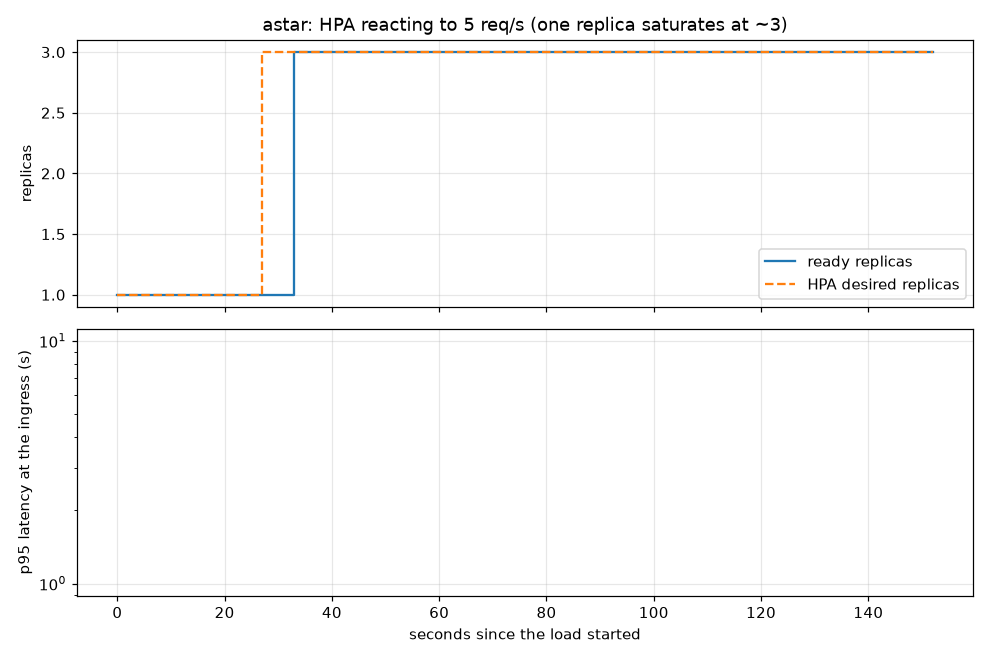
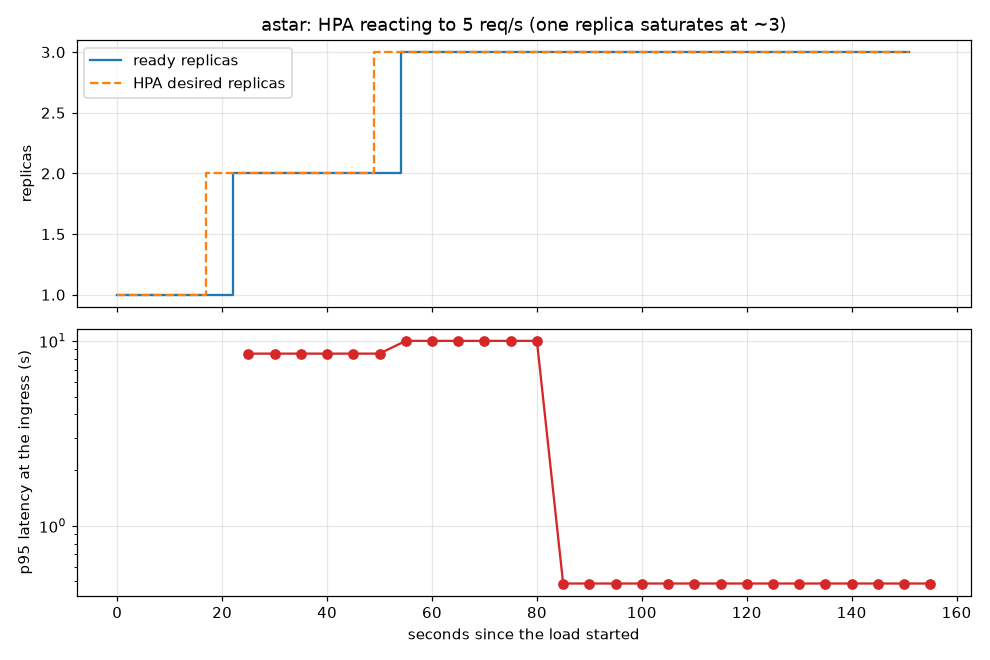
feat(loadtest): capacity report, autoscaler validation, resource requests from measurements (chart v0.1.3)
k6 step tests found the knee at ~3 req/s per A* replica (single-threaded, pins one core) and ~30 req/s for Valhalla. A* CPU request 100m -> 600m (the old value scaled out at ~0.3 req/s); Valhalla 250m/512Mi/2Gi -> 1000m/256Mi/1Gi. HPA validated under overload: scale-out decided at 17 s, 3 replicas Ready at 54 s, p95 back to 0.49 s by ~80 s. README, resume bullets and plan status updated.

diff --git a/docs/capacity-report.md b/docs/capacity-report.md
@@ -1,0 +1,127 @@
+# Capacity report
+
+How much load can each routing service take, where does it break, and what should the CPU requests and
+autoscaler thresholds be? Everything below was measured with [k6](https://k6.io) against the services through the
+Traefik Ingress on the local `kind` cluster; the raw data is in `loadtest/results/`.
+
+## Summary
+
+| | A\* backend (custom, Python) | Valhalla |
+|---|---|---|
+| **Capacity of one replica** (the "knee") | **about 3 requests/s** | **about 30 requests/s** |
+| Latency just below the knee (p95) | 0.44 s at 3 req/s | 0.19 s at 30 req/s |
+| What happens past the knee | latency jumps from 0.4 s to 13 s and requests time out at 30 s | p95 rises to 0.7 s at 40 req/s, then 8.7 s with 24% errors at 60 req/s |
+| CPU per request/second | 0.23 to 0.27 cores | 0.05 to 0.07 cores |
+| Memory | flat at ~430 MiB at every load | 139 to 172 MiB |
+| Why | single-threaded Python: one request at a time, so it pins exactly **one core** | multi-threaded, uses up to ~3 cores |
+
+Valhalla serves roughly **ten times** the traffic per replica at a third of the latency.
+
+## Method
+
+- **Load generator:** k6 with the `constant-arrival-rate` executor. It holds the *request rate* fixed however slowly
+  the server answers. A fixed number of virtual users would slow down together with the server and hide overload.
+- **Steps:** each offered rate runs for 45 seconds, followed by a 20-second cooldown. Rates rise until the service breaks.
+- **Realistic requests:** 300 random trips of 2 to 6 km between real road nodes, each verified to be routable by *both*
+  engines first (`loadtest/make_points.py`), so a failure means overload and not bad input.
+- **Resource use:** for each step, Prometheus is asked what CPU and memory the pods used during exactly that window
+  (skipping the first 10 seconds of warm-up).
+- **One replica:** the autoscaler was pinned to a single replica during the step tests, so they measure one pod.
+
+```bash
+python loadtest/run.py astar 1 2 3 4 5 6 8
+python loadtest/run.py valhalla 5 10 20 30 40 60
+python loadtest/plot.py astar valhalla
+python loadtest/hpa_validate.py astar 5 150
+```
+
+## A\* backend
+
+![A* capacity](img/capacity-astar.png)
+
+| Offered (req/s) | Achieved | p50 | p95 | p99 | Errors | CPU avg (cores) | Memory max |
+|---|---|---|---|---|---|---|---|
+| 1 | 1.0 | 336 ms | 398 ms | 485 ms | 0% | 0.27 | 429 MiB |
+| 2 | 2.0 | 327 ms | 364 ms | 390 ms | 0% | 0.53 | 429 MiB |
+| 3 | 3.0 | 348 ms | 443 ms | 481 ms | 0% | 0.68 | 429 MiB |
+| 4 | 3.3 | 2.1 s | 13.0 s | 30.0 s | 9% | 0.73 | 429 MiB |
+| 5 | 3.4 | 2.3 s | 30.0 s | 30.0 s | 26% | 0.64 | 431 MiB |
+| 6 | 3.6 | 5.3 s | 30.0 s | 30.0 s | 21% | 0.80 | 431 MiB |
+| 8 | 3.9 | 7.2 s | 30.0 s | 30.0 s | 33% | 0.77 | 431 MiB |
+
+Up to 3 requests/s latency is flat at about 0.35 s. At 4 it collapses, and achieved throughput stops growing near
+3.3 to 3.9 req/s however much more is offered. A request takes about 0.33 s of service time on one thread, so one
+replica can finish at most about 3 per second; anything above that queues, and queued requests wait until they time out.
+
+## Valhalla
+
+![Valhalla capacity](img/capacity-valhalla.png)
+
+| Offered (req/s) | Achieved | p50 | p95 | p99 | Errors | CPU avg (cores) | Memory max |
+|---|---|---|---|---|---|---|---|
+| 5 | 5.0 | 80 ms | 134 ms | 159 ms | 0% | 0.31 | 139 MiB |
+| 10 | 10.0 | 78 ms | 142 ms | 198 ms | 0% | 0.68 | 143 MiB |
+| 20 | 20.0 | 73 ms | 147 ms | 215 ms | 0% | 1.02 | 143 MiB |
+| 30 | 29.9 | 83 ms | 192 ms | 255 ms | 0% | 1.77 | 148 MiB |
+| 40 | 39.6 | 240 ms | 680 ms | 847 ms | 0% | 2.58 | 152 MiB |
+| 60 | 52.0 | 3.4 s | 8.7 s | 9.1 s | 24% | 2.92 | 172 MiB |
+
+Latency stays under 0.2 s through 30 req/s, degrades at 40 and breaks at 60. CPU keeps growing with load up to about
+3 cores, so unlike the A\* backend it is not capped at one core.
+
+## What the numbers changed
+
+These were the settings before the test, all guesses, and what they became.
+
+| Setting | Before | After | Why |
+|---|---|---|---|
+| A\* CPU request | 100m | **600m** | At a 70% HPA target, 100m meant scaling out at 0.07 cores, around 0.3 req/s, which is almost any traffic. With 600m it scales out at 0.42 cores (about 1.6 to 1.9 req/s), roughly half the knee, which leaves room for the time a new pod needs to start. |
+| A\* memory | 512Mi / 768Mi | unchanged | Measured 429 MiB at every load, so the 768Mi limit is 1.8 times the real use. |
+| Valhalla CPU request | 250m | **1000m** | About 1.0 core at 20 req/s, a comfortable operating point two thirds of the way to the knee. |
+| Valhalla memory | 512Mi / 2Gi | **256Mi / 1Gi** | Peak 172 MiB. The limit stays generous because only central Tokyo was queried and the tiles are memory-mapped. |
+
+Valhalla has no autoscaler (it writes to a single volume, see the README), so its capacity is vertical: about 30
+req/s per replica on this machine.
+
+## Does the autoscaler protect the service?
+
+A\* was offered 5 req/s, above one replica's knee, while the HPA (min 1, max 3, 70% target) was active.
+
+![HPA scaling under load](img/hpa-astar.png)
+
+| Time since load started | Event |
+|---|---|
+| 17 s | HPA decides to add a replica (CPU well above 70% of the request) |
+| 22 s | second replica Ready |
+| 49 s | HPA adds the third |
+| 54 s | third replica Ready |
+| about 80 s | p95 latency at the ingress back to **0.49 s** and stays there |
+
+So the service was degraded for about 80 seconds after the load began and then recovered by itself. Two details matter:
+
+- **Latency recovers after the replicas are ready, not at the same moment**, because the saturated first replica still
+  has a backlog to drain. (The plotted curve also lags: the latency query uses a 1-minute window, since
+  Prometheus scrapes every 30 s.)
+- **After scaling out, CPU settled at 84 to 92% of the request, above the 70% target.** The HPA wanted more than 3
+  replicas and was held at `maxReplicas: 3`. Three replicas coped with 5 req/s, but there is little headroom beyond
+  it. `values-prod.yaml` allows 5.
+
+## Limits of this test
+
+- **Everything shares one laptop.** k6, Traefik, the cluster, Prometheus and Grafana all compete for the same CPU, so
+  absolute numbers are lower than on dedicated hardware. Treat the *shape* (where the knee is, how services compare)
+  as the finding, not the exact figures.
+- **Only central-Tokyo trips of 2 to 6 km** were tested. Longer routes cost the A\* backend more.
+- **45-second steps** show short-term behaviour, not long-run stability or memory growth over hours.
+- **Latency percentiles above 10 s are capped** by the top histogram bucket in Prometheus; k6's own numbers are exact
+  and are the ones in the tables.
+- **One run per step**, no repetition, so there are no confidence intervals.
+
+## What I would do next
+
+1. **Fix the real bottleneck in A\*.** It is CPU-bound pure Python on a single thread, so more threads would not
+   help (the GIL). The options are several worker processes behind the same port, or a faster implementation. Adding
+   replicas works but costs ~430 MiB each.
+2. **Raise `maxReplicas`** (or add a memory-aware cap) once more than ~5 req/s is expected.
+3. **Scale out earlier or faster.** Lower the HPA target, or add a `behavior.scaleUp` policy, if a minute of
+   degradation is too long for the use case.

diff --git a/README.md b/README.md
@@ -37,6 +37,7 @@ This table is deliberately blunt. Code that was written and validated but never 
 | Helm chart, Traefik Ingress, HPA, metrics-server | Ran on a local `kind` cluster |
 | End-to-end deploy test: ephemeral cluster, smoke test, deliberately broken deploy, `helm rollback` | Ran on GitHub Actions (every pull request and push) |
 | `terraform/local`: the local cluster, add-ons and chart as code | Ran locally: `apply`, `plan` (no drift), `destroy`, `apply` again |
+| Load tests (k6) and the autoscaler validation | Ran locally against the `kind` cluster (`docs/capacity-report.md`) |
 | Prometheus, Alertmanager, Grafana, the dashboard and alert rules | Ran on the local `kind` cluster; alerts were made to fire by deliberately taking Valhalla down (see `docs/monitoring.md`) |
 | `terraform/aws-reference`: VPC, EKS, ECR, GitHub OIDC role, S3 | Formatted, validated and security-scanned in CI. **Never applied** |
 | `values-prod.yaml` | Rendered and schema-validated in CI only. **Never installed.** It contains placeholder hostnames and assumes a storage class that does not exist locally |
@@ -87,6 +88,8 @@ Open http://app.localhost:8088 (browsers resolve `*.localhost` to your own machi
 | `ci/` | Cropped map fixture (10.7k nodes) and config for the CI end-to-end test, plus the script that regenerates it |
 | `scripts/smoke-test.sh` | End-to-end checks through the Ingress; used by CI and runnable locally |
 | `docs/monitoring.md` | What is measured, the alert rules, and the monitoring problems found and fixed |
+| `docs/capacity-report.md` | Load-test results, the saturation point of each service, and the settings derived from them |
+| `loadtest/` | k6 script, step-test runner, autoscaler validation, charts, verified test trips and raw results |
 | `k8s/monitoring-values.yaml` | kube-prometheus-stack settings for the local cluster |
 | `.github/workflows/ci.yml` | CI pipeline (see below) |
 
@@ -112,6 +115,7 @@ Third-party tools are pinned by version and checksum or commit SHA, and the toke
 - **A cross-platform bug found by reading a diff.** Helm checksum annotations (used to restart pods when config changes) hash template *text*. A Windows checkout with CRLF endings produced a different hash than Linux, causing spurious restarts of Valhalla (which uses a `Recreate` strategy, so each one is downtime). `.gitattributes` now forces LF everywhere, and a second `helm upgrade` is verified to change nothing.
 - **Valhalla is not autoscaled.** It writes to a `ReadWriteOnce` volume that its entrypoint modifies, so a second replica would be a second writer on the same files. Only the stateless A\* backend and frontend have HPAs.
 - **A deploy pipeline without a cloud.** The end-to-end job proves what a CD pipeline should prove: the artifact deploys, a bad release fails visibly instead of silently, the old version keeps serving during the failed rollout, and rollback restores a working state, all asserted by a script and not by eye.
+- **Resource settings come from measurement, not guesses.** A load test found one A\* replica saturates at ~3 req/s (it uses exactly one core) and Valhalla at ~30 req/s. The original 100m CPU request made the autoscaler trigger at around 0.3 req/s; it is now 600m, so it scales out at roughly half the saturation point. The autoscaler was then validated under overload: it added replicas within seconds and latency recovered in about 80 s.
 - **An alert that could not fire, found by testing it.** The first error-rate alert watched per-service 5xx metrics. A deliberate outage (Valhalla scaled to zero) showed that Traefik answers `503` itself when a route has no backend and attributes nothing to the service, so that alert stayed silent while every request failed. An ingress-level alert and dashboard panel now cover it. Alerts need to be exercised, not just written.
 - **A silent label collision.** Traefik and the Prometheus `ServiceMonitor` both set a `service` label, so Prometheus renamed Traefik's to `exported_service` and every dashboard query returned nothing, without an error. `honorLabels: true` fixes it.
 - **A secret nearly committed, and caught.** The kind Terraform provider writes a kubeconfig (with client keys) beside the Terraform code, and a careless `git add` staged it into a local commit. Inspecting `git ls-files` caught it before any push; the commit was rewritten, the pattern ignored, and a repository-wide secret scan added to CI so this class of mistake fails the build.
@@ -125,8 +129,9 @@ $0. Compose and `kind` run on a laptop, CI uses free GitHub Actions minutes, and
 
 ## Known limitations
 
-- **Resource numbers are estimates until the load test (planned).** A smoke test scaled the A\* backend from 1 to 3 replicas within about 30 seconds while each replica saturated roughly one CPU core. It is a single-threaded Python server, and its CPU request (100m) is too low for that. Proper thresholds come from a measured load test.
-- **The timings in the screenshot are one request, not a benchmark.**
+- **The load-test numbers come from one laptop that also runs the load generator, the cluster and the monitoring stack.** They show *where* each service breaks and how they compare, not absolute production capacity. See `docs/capacity-report.md` for the method and its limits.
+- **The A\* backend is the bottleneck by design:** single-threaded Python, about 3 requests/s per replica against Valhalla's ~30. More replicas help but each costs ~430 MiB.
+- **The timings in the screenshot are one request, not a benchmark.** The load-test report has the real numbers.
 - **`values-prod.yaml` is not installed anywhere.** Shared storage across nodes (the data volume is read by several pods) is an open design question there. The AWS reference code proposes copying data from S3 into each pod at start, but the Helm chart does not implement that init container yet, so the chart and the reference design are not yet consistent.
 - **The AWS code is a reference, not evidence of an AWS deployment.** It is validated and scanned, never applied, and its cost figures are unverified estimates.
 - The app has no real secrets today, so the chart's Secret is an optional, empty mechanism.

diff --git a/docs/resume-bullets.md b/docs/resume-bullets.md
@@ -8,10 +8,16 @@ Pick three. Every figure below is something that actually happened in this repo;
 
 **Kubernetes and Helm**
 - Packaged a three-service routing platform as a Helm chart with dev and prod values, host-based Traefik Ingress, ConfigMap/Secret-driven config with checksum-triggered rollouts, and HPAs, validated in CI with `helm lint --strict` and `kubeconform` against rendered output.
-- Verified autoscaling with a short load smoke test on a kind cluster (the A* service scaled from 1 to 3 replicas in about 30 seconds); the measurements showed each replica saturating about one CPU core against a 100m request, flagging the request as far too low. (Replace with real load-test numbers after Day 9.)
+- Load-tested the routing services with k6 (constant-arrival-rate steps, 300 verified trips) and found the saturation points: ~3 req/s per replica for a single-threaded Python backend versus ~30 req/s for Valhalla. Re-derived CPU requests and HPA thresholds from the data (the old 100m request would have scaled out at ~0.3 req/s), then validated that the autoscaler added replicas within seconds and restored p95 latency to 0.49 s after about 80 s of overload.
 
 **Debugging and judgement**
 - Diagnosed spurious pod restarts to a CRLF/LF difference in Helm template text hashed into pod annotations, and fixed it repo-wide with `.gitattributes`, verified by a no-op second `helm upgrade`.
 - Replaced an archived ingress controller (ingress-nginx) with an actively maintained one after checking upstream project status before installing.
 
 **Do not claim:** any cloud deployment (AWS or GCP). Nothing in this project was ever deployed to a cloud. "Wrote and validated" is true only for code that exists in the repo.
+
+**More from later days** (each is real; pick what fits the role)
+- Built a no-cloud CD pipeline in GitHub Actions: an ephemeral kind cluster deploys the exact scanned images, smoke-tests real routes through the Ingress, deliberately breaks a release, verifies the service stays up, and recovers with `helm rollback`.
+- Added Prometheus/Grafana monitoring with ingress-level RED metrics and alert rules; a deliberate outage showed the first error-rate alert was blind to Traefik-generated 503s, so an ingress-level alert was added and both alerts were observed firing.
+- Managed the local environment as code with Terraform (kind, Traefik, metrics-server, Helm releases; `plan` shows no drift, `destroy` and re-`apply` verified), and wrote and security-scanned an EKS/VPC/ECR/OIDC reference design that was **never applied**.
+- Caught a kubeconfig with client credentials about to be committed before it was pushed, rewrote the local commit, and added a repository-wide secret scan to CI.

diff --git a/CLAUDE.md b/CLAUDE.md
@@ -36,8 +36,8 @@ Per-day checkpoints are deferred by the owner's decision: questions are appended
 | 6 | CD without a cloud: GitHub Actions deploys the chart to an ephemeral kind cluster with a tiny OSM extract, smoke-tests a real route, deliberately breaks a deploy and rolls back with `helm rollback` | Pipeline proves deploy + rollback end to end | done |
 | 7 | Terraform: provision the kind cluster, Traefik, metrics-server and the Helm release locally; plus unapplied AWS/EKS reference code validated in CI (`terraform validate`, `tflint`, Trivy config scan) | `terraform apply/destroy` works locally; reference code validates in CI | done |
 | 8 | Monitoring: kube-prometheus-stack on kind, Grafana dashboards (request rate, p95/p99 latency, pod CPU/memory, error rate), one alert rule | Dashboard screenshots and a firing alert | done |
-| 9 | Load test + analysis: k6 against the routing endpoints, find the saturation point, set HPA thresholds and CPU requests from data, write a capacity report | One-page writeup with graphs | next |
-| 10 | Final polish, update the README with real results, then the full project breakdown and Q&A (deferred checkpoints) | Owner can explain every file | |
+| 9 | Load test + analysis: k6 against the routing endpoints, find the saturation point, set HPA thresholds and CPU requests from data, write a capacity report | One-page writeup with graphs | done |
+| 10 | Final polish, update the README with real results, then the full project breakdown and Q&A (deferred checkpoints) | Owner can explain every file | next |
 
 GCP/GKE is dropped (no spend). **If time slips:** cut Day 8 (monitoring) before touching Days 5-7 and 9.
 
